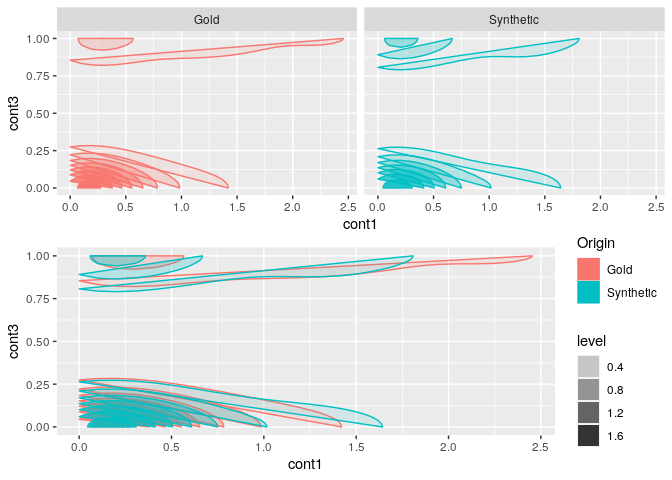
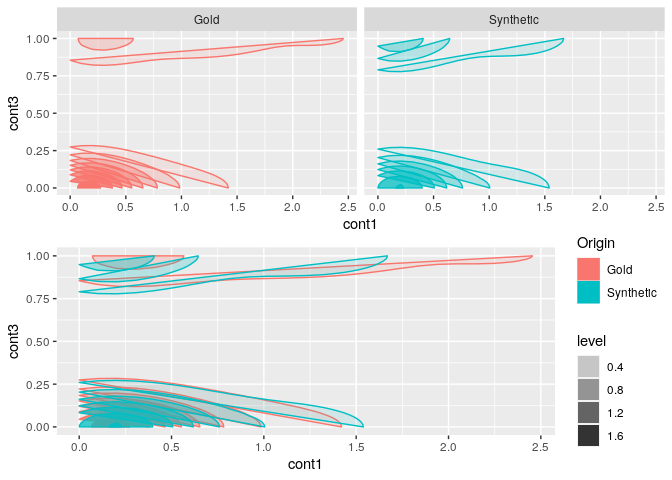
No information

diff --git a/README.md b/README.md
@@ -32,7 +32,7 @@ A shiny app was developped to produce graphics to compare synthetic and gold dat
 
 To run the Shiny app, just run:
 
-`runCompare()`
+`BigSyn::InteractiveCompare(BigSyn::tableA,BigSyn::TSTtableA)`
 
 Figures below are screenshots of the App.
 
@@ -53,14 +53,14 @@ uniqueid<-unique(tableA[,1:2])
 tableB<-cbind(uniqueid,tableB[1:nrow(uniqueid),])
 ```
 
-We then transpose the two tables. The transposed tables contain one row per unique value of `id1a`, `id1b`.
+We then transpose the two tables. The transposed tables contain one row per unique value of `id1a`, `id1b`:
 
 ``` r
 TKtableA<-BigSyn::Generaltransposefunction(tableA,c("id1a","id1b"),c("id2a","id2b"))
 TKtableB<-BigSyn::Generaltransposefunction(tableB,c("id1a","id1b"),character(0))
 ```
 
-We merge the transposed tables by `id1a` and `id1b1`.
+We merge the transposed tables by `id1a` and `id1b1`:
 
 ``` r
 Ttable<-merge(TKtableA$TtableA,TKtableB$TtableA, by =c("id1a","id1b"))
@@ -69,10 +69,10 @@ Ttable<-merge(TKtableA$TtableA,TKtableB$TtableA, by =c("id1a","id1b"))
 We synthesize the merged transposed datasets:
 
 ``` r
-STtable<-SDPSYN2(Ttable,asis = c("id1a","id1b"),nrep = 1)
+STtable<-BigSyn::SDPSYN2(Ttable,asis = c("id1a","id1b"),nrep = 1)
 ```
 
-We separate the synthetic merged transposed datasets by table of origin
+We separate the synthetic merged transposed datasets by table of origin:
 
 ``` r
 STtableA<-STtable[[1]][c("id1a","id1b",grep("tableA",names(STtable[[1]]),value = TRUE))]
@@ -86,14 +86,9 @@ TSTtableA<-BigSyn::GeneralReversetransposefunction(TtableA = STtableA,
                                                    key = TKtableA$key)
 TSTtableB<-BigSyn::GeneralReversetransposefunction(TtableA = STtableB,
                                                    key = TKtableB$key)
-
-#check the two tables
-#runCompare(TSTtableA,TSTtableB)
 ```
 
-The synthetic data is now ready. We can run comparative analysis on the synthetic and original (gold) data.
-
-We realise a univariate analysis and compare the results obtained on the gold and synthetic datasets.
+The synthetic data is now ready. We can run comparative analysis on the synthetic and original (gold) data. We realise a univariate analysis and compare the results obtained on the gold and synthetic datasets:
 
 ``` r
 TSTtableA$Origin="Synthetic"
@@ -104,7 +99,7 @@ ggplot2::ggplot(X,aes(factor1,fill=Origin)) + geom_bar(position = "dodge")
 
 ![](README_files/figure-markdown_github/unnamed-chunk-9-1.png)
 
-We realise a bivariate analysis and compare the results obtained on the gold and synthetic datasets.
+We realise a bivariate analysis and compare the results obtained on the gold and synthetic datasets:
 
 ``` r
 library(gridExtra)
@@ -115,3 +110,10 @@ grid.arrange(plot2,plot1)
 ```
 
 ![](README_files/figure-markdown_github/unnamed-chunk-10-1.png)
+
+To check interactively the two tables, run:
+
+``` r
+BigSyn::InteractiveCompare(tableA,TSTtableA)
+BigSyn::InteractiveCompare(tableB,TSTtableB)
+```
